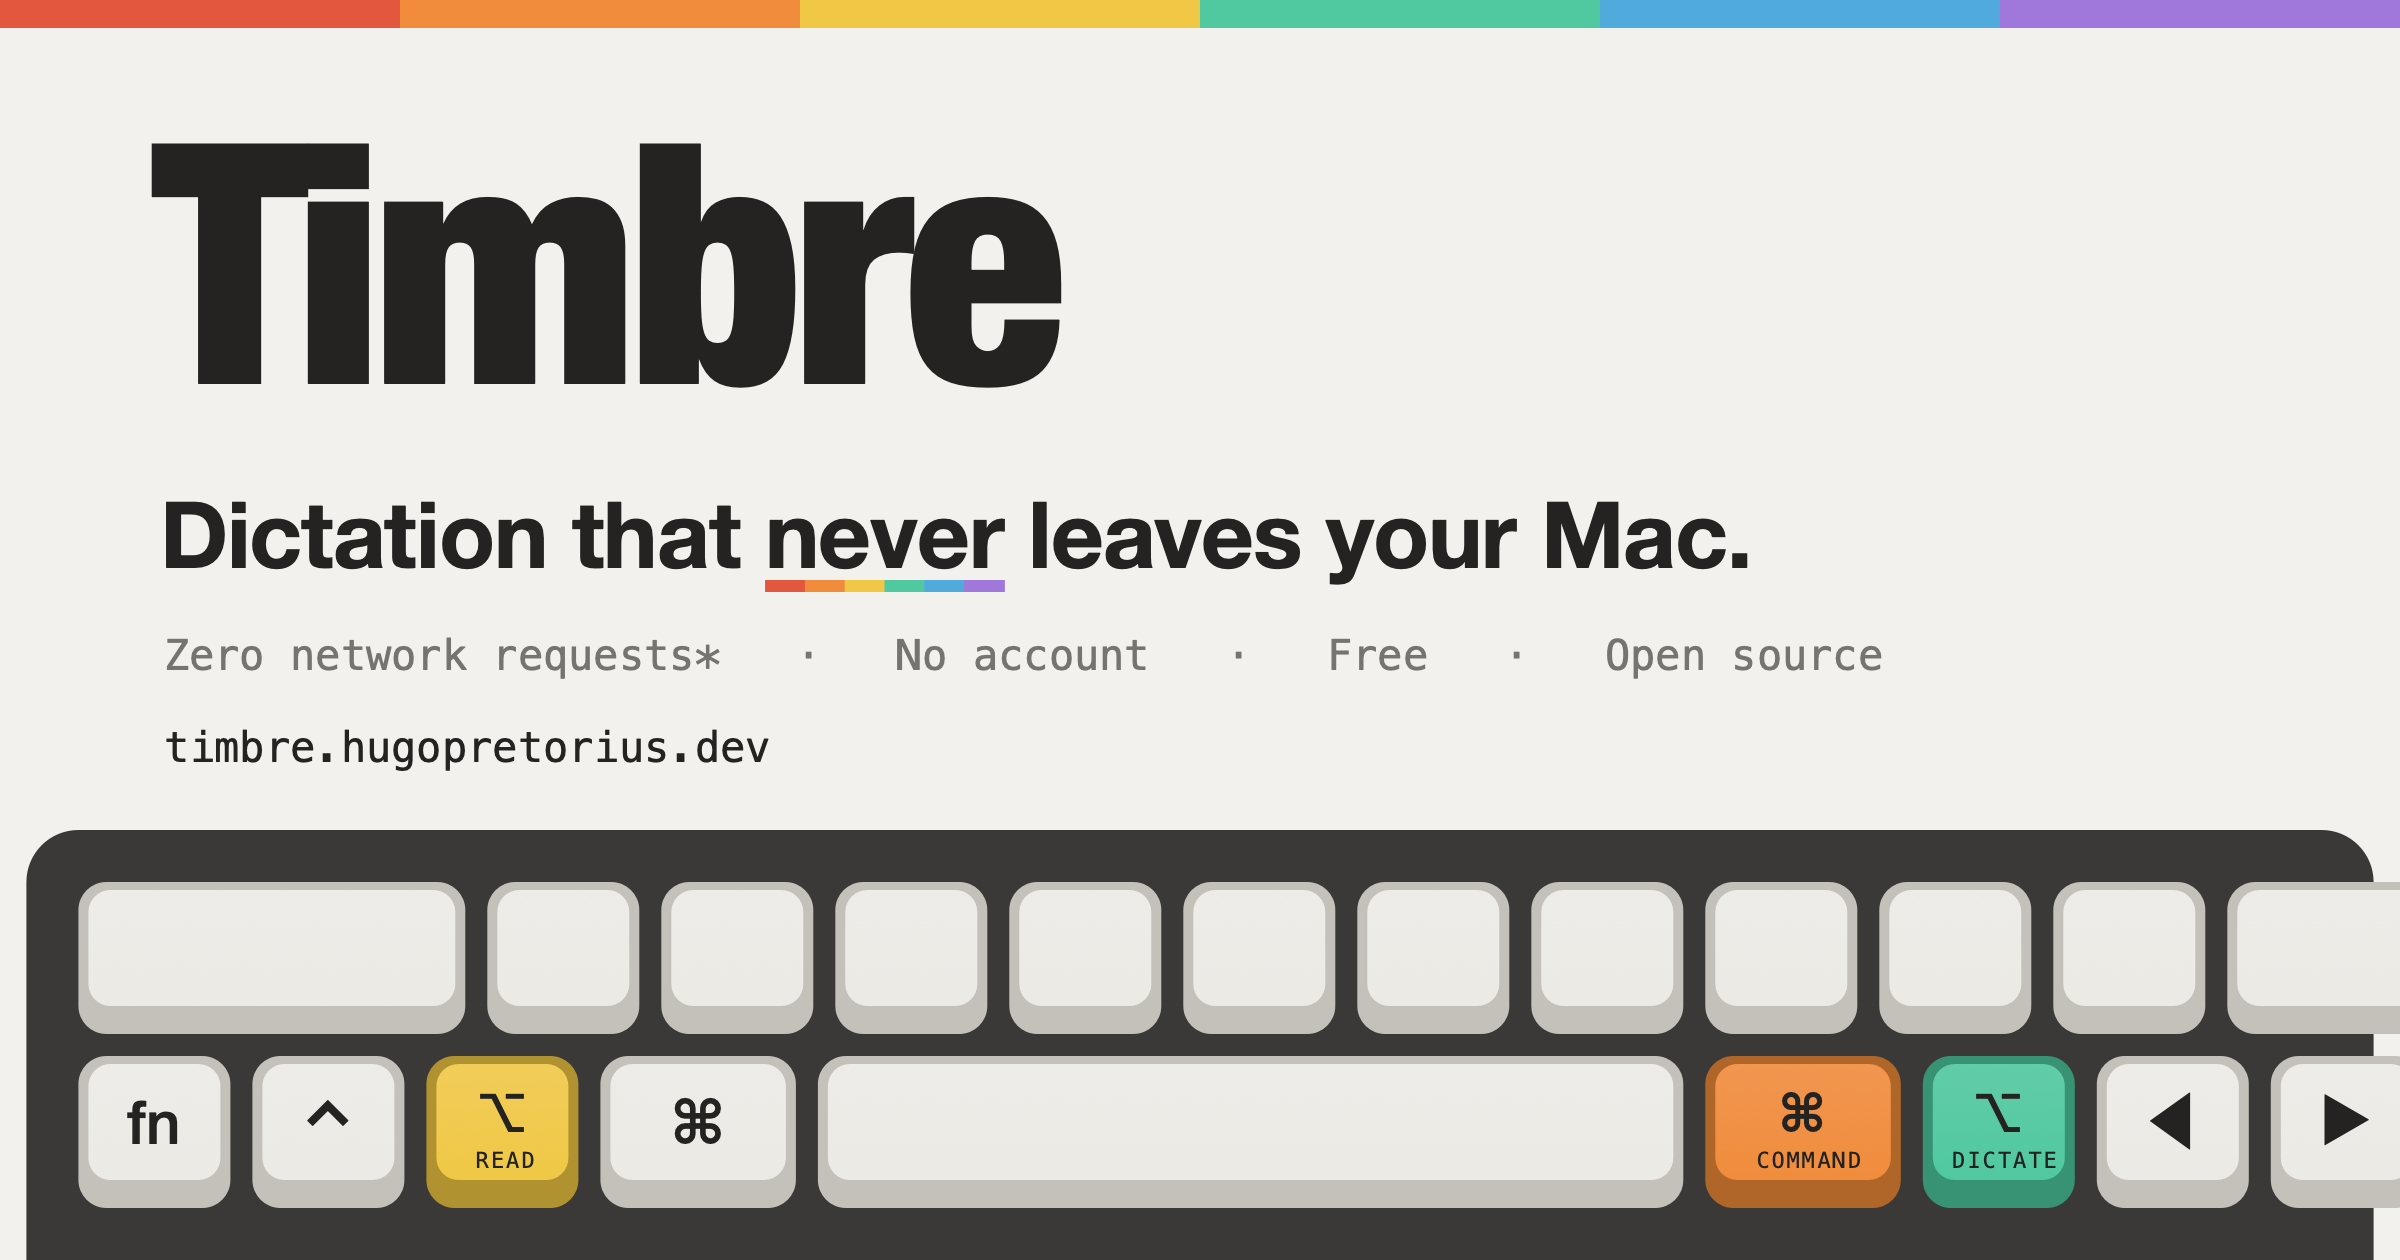
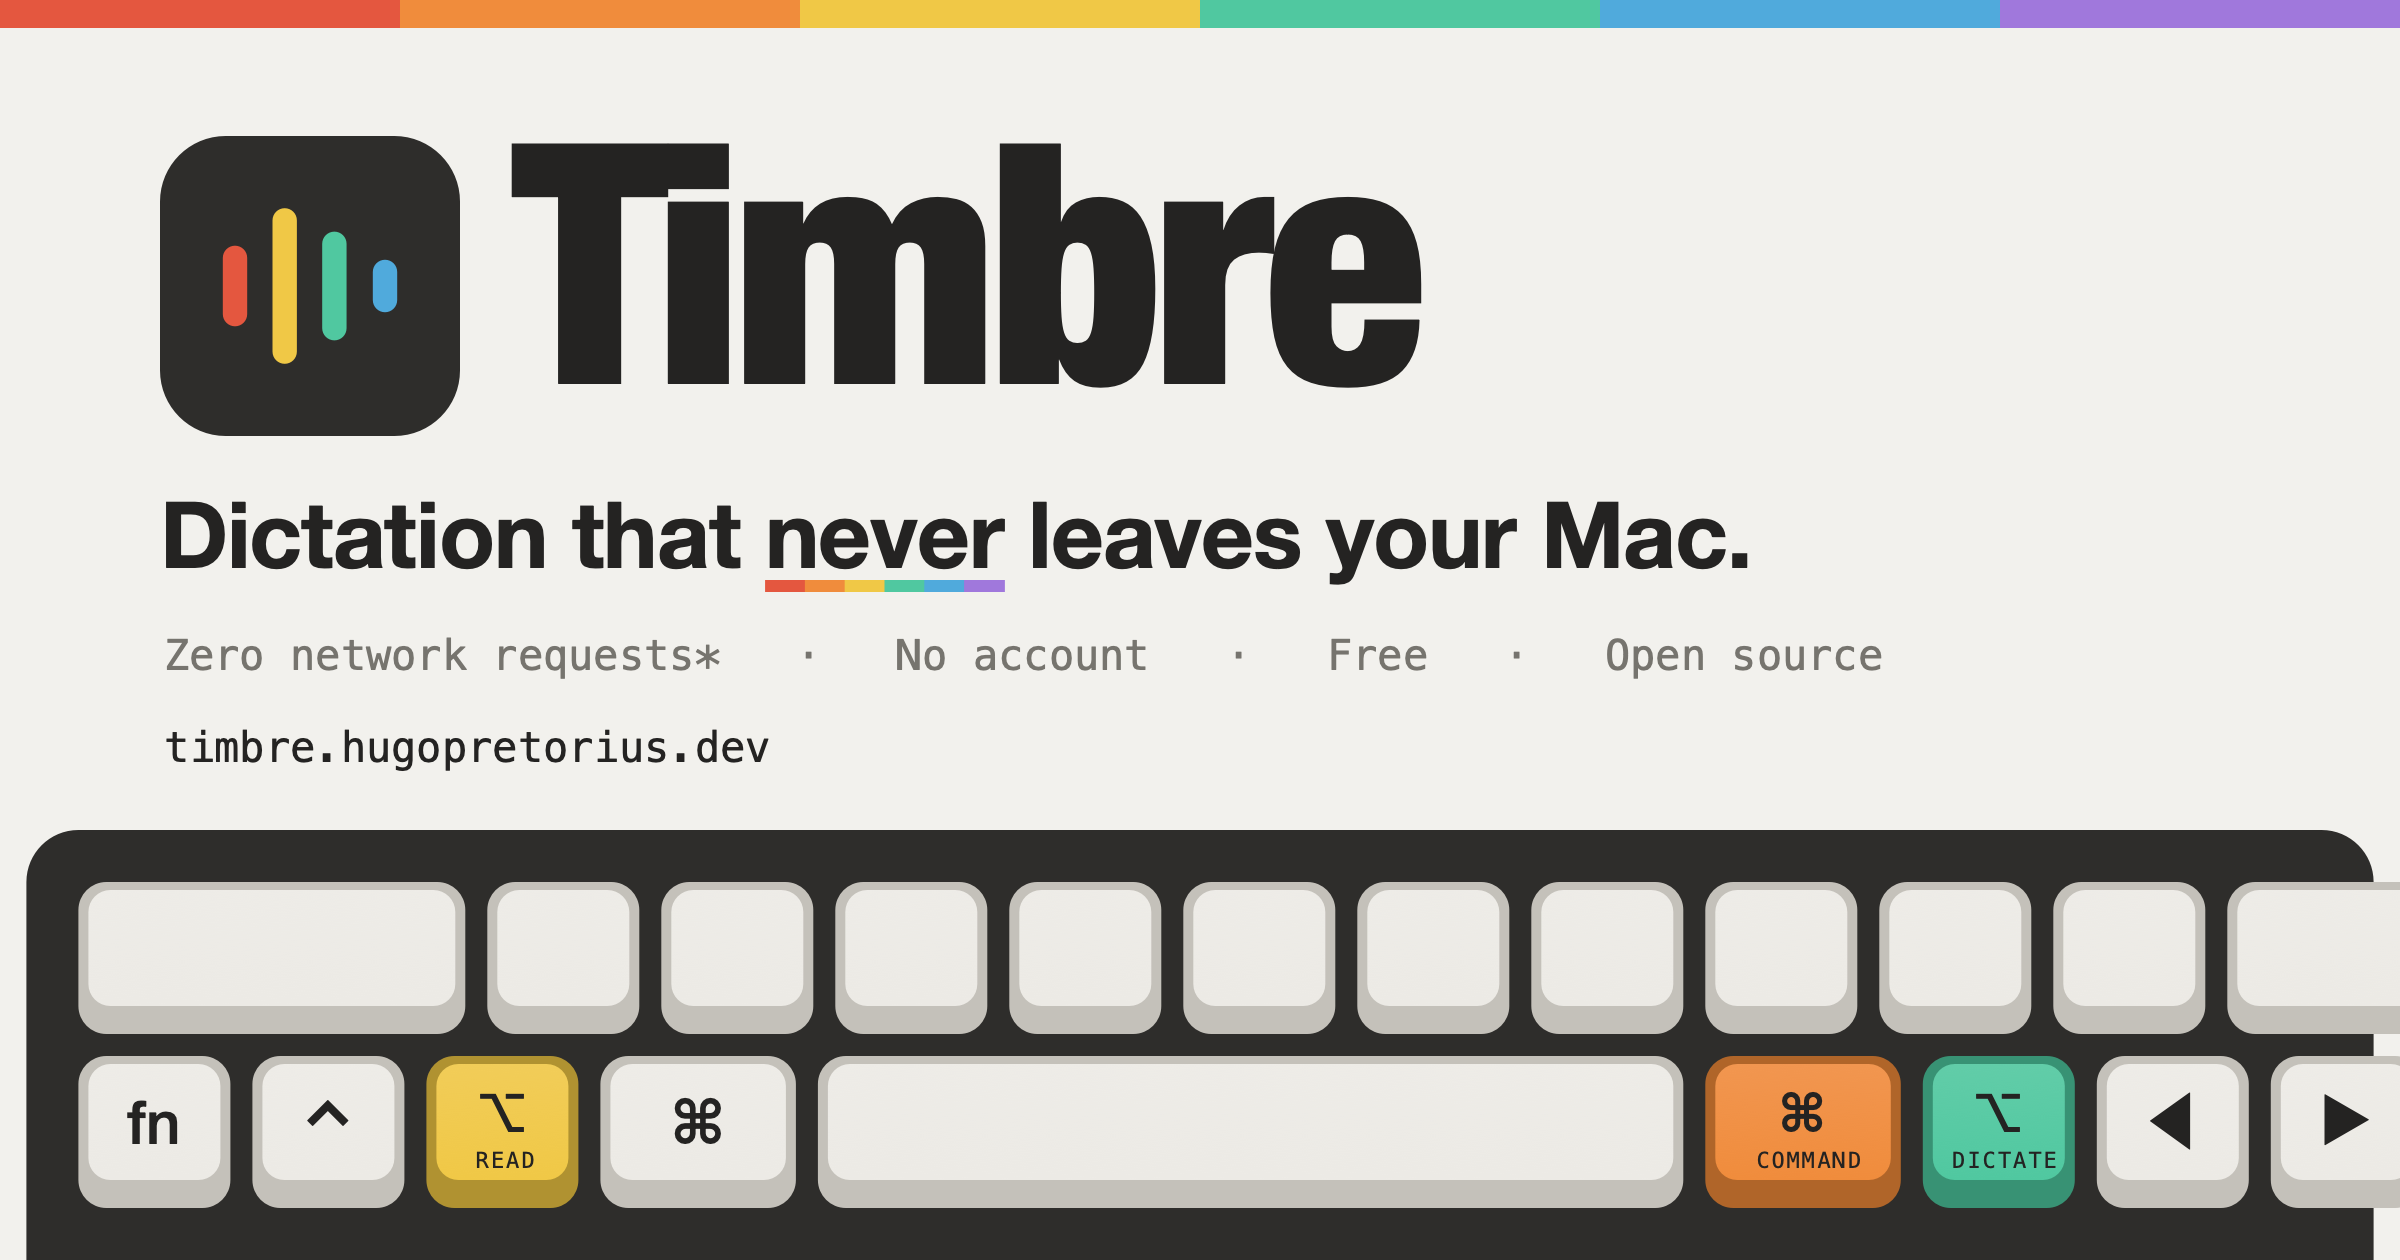
The mark beside the wordmark: site header, footer, Backstage, login, share image (#50)
The app icon's four bars, inline as an SVG that takes the palette from
the page, so the tab, the Dock, the header and the LinkedIn preview all
show the same voice.

Changed region(s): [[0.0625, 0.0929, 0.5938, 0.3714]]

diff --git a/tools/og-image.swift b/tools/og-image.swift
@@ -23,7 +23,14 @@ let ink = rgb(36, 35, 34)
 let muted = rgb(118, 116, 110)
 let capTop = rgb(236, 234, 229)
 let capSide = rgb(196, 193, 186)
-let caseColor = rgb(58, 57, 55)
+let caseColor = rgb(46, 45, 43)
+
+extension NSBezierPath {
+    func fill(with color: NSColor) {
+        color.setFill()
+        fill()
+    }
+}
 let rainbow = [rgb(228, 87, 63), rgb(240, 140, 60), rgb(240, 200, 70), rgb(80, 200, 160), rgb(80, 170, 220), rgb(160, 120, 220)]
 
 guard let rep = NSBitmapImageRep(
@@ -62,7 +69,19 @@ func size(of text: String, font: NSFont, kern: Double = 0) -> NSSize {
     NSAttributedString(string: text, attributes: [.font: font, .kern: kern]).size()
 }
 
-draw("Timbre", at: NSPoint(x: 76, y: 400), font: display, color: ink, kern: -4)
+// The mark: the favicon's four bars on a charcoal tile, beside the wordmark.
+let markSide = 150.0
+let markX = 80.0
+let markY = 412.0
+NSBezierPath(roundedRect: NSRect(x: markX, y: markY, width: markSide, height: markSide), xRadius: markSide * 7 / 32, yRadius: markSide * 7 / 32).fill(with: caseColor)
+let grid = markSide / 32
+let barWidth = 2.6 * grid
+for (i, cx) in [8.0, 13.3, 18.6, 24.0].enumerated() {
+    let h = [6.0, 14.0, 9.0, 3.0][i] * grid + barWidth
+    [rainbow[0], rainbow[2], rainbow[3], rainbow[4]][i].setFill()
+    NSBezierPath(roundedRect: NSRect(x: markX + cx * grid - barWidth / 2, y: markY + markSide / 2 - h / 2, width: barWidth, height: h), xRadius: barWidth / 2, yRadius: barWidth / 2).fill()
+}
+draw("Timbre", at: NSPoint(x: markX + markSide + 26, y: 400), font: display, color: ink, kern: -4)
 draw("Dictation that never leaves your Mac.", at: NSPoint(x: 80, y: 336), font: tagline, color: ink, kern: -0.5)
 
 // The rainbow under "never".

diff --git a/web/src/routes/(public)/+layout.svelte b/web/src/routes/(public)/+layout.svelte
@@ -1,6 +1,7 @@
 <script lang="ts">
 	import { page } from '$app/state';
 	import { Button } from '$lib/components/ui/button';
+	import Mark from '$lib/components/marketing/Mark.svelte';
 	import Stripe from '$lib/components/marketing/Stripe.svelte';
 	import ThemeToggle from '$lib/components/site/ThemeToggle.svelte';
 	import { site } from '$lib/site';
@@ -18,9 +19,12 @@
 <div class="flex min-h-screen flex-col">
 	<header class="bg-background/85 sticky top-0 z-30 backdrop-blur-md">
 		<nav class="mx-auto flex h-16 max-w-6xl items-center gap-5 px-6">
-			<a href="/" class="flex flex-col gap-[5px]" aria-label="Timbre home">
-				<span class="display text-[1.6rem] leading-none">Timbre</span>
-				<Stripe height="3px" />
+			<a href="/" class="flex items-center gap-2.5" aria-label="Timbre home">
+				<Mark size={30} />
+				<span class="flex flex-col gap-[5px]">
+					<span class="display text-[1.6rem] leading-none">Timbre</span>
+					<Stripe height="3px" />
+				</span>
 			</a>
 
 			<div class="ml-auto hidden items-center gap-6 text-sm sm:flex">
@@ -54,7 +58,10 @@
 		<Stripe height="6px" rounded={false} />
 		<div class="mx-auto grid max-w-6xl gap-10 px-6 py-12 sm:grid-cols-[1.2fr_1fr_1fr]">
 			<div>
-				<p class="display text-2xl">Timbre</p>
+				<div class="flex items-center gap-2.5">
+					<Mark size={26} />
+					<p class="display text-2xl">Timbre</p>
+				</div>
 				<p class="text-muted-foreground mt-3 max-w-[38ch] text-sm leading-relaxed">
 					{site.tagline} Free for personal use, built in the open, and it never sends your voice
 					or your text off this Mac.

diff --git a/web/src/routes/backstage/+layout.svelte b/web/src/routes/backstage/+layout.svelte
@@ -6,6 +6,7 @@
 	import { Button } from '$lib/components/ui/button';
 	import CommandPalette from '$lib/components/backstage/CommandPalette.svelte';
 	import ThemeToggle from '$lib/components/site/ThemeToggle.svelte';
+	import Mark from '$lib/components/marketing/Mark.svelte';
 	import Stripe from '$lib/components/marketing/Stripe.svelte';
 	import { modules } from '$lib/university';
 	import { releases } from '$lib/releases';
@@ -73,10 +74,7 @@
 	<Sidebar.Root collapsible="icon">
 		<Sidebar.Header>
 			<a href="/backstage" class="flex items-center gap-2.5 px-2 py-1.5">
-				<span class="flex shrink-0 flex-col gap-[3px]">
-					<span class="display text-[1.15rem] leading-none">T</span>
-					<span class="rainbow block h-[3px] w-4 rounded-full"></span>
-				</span>
+				<Mark size={28} class="shrink-0" />
 				<span class="flex flex-col group-data-[collapsible=icon]:hidden">
 					<span class="display text-base leading-none">Timbre</span>
 					<span class="eyebrow text-muted-foreground mt-1 text-[9px]">backstage</span>

diff --git a/web/src/lib/components/marketing/Mark.svelte b/web/src/lib/components/marketing/Mark.svelte
@@ -1,0 +1,23 @@
+<script lang="ts">
+	/// The mark: four bars, the shape of a voice, on a charcoal tile — the
+	/// favicon and the app icon, drawn inline so it takes the palette from
+	/// the page and stays crisp at any size.
+	let { size = 28, class: className = '' }: { size?: number; class?: string } = $props();
+</script>
+
+<svg
+	viewBox="0 0 32 32"
+	width={size}
+	height={size}
+	class={className}
+	aria-hidden="true"
+	focusable="false"
+>
+	<rect width="32" height="32" rx="7" fill="var(--case)" />
+	<g stroke-width="2.6" stroke-linecap="round">
+		<line x1="8" y1="13" x2="8" y2="19" stroke="var(--retro-red)" />
+		<line x1="13.3" y1="9" x2="13.3" y2="23" stroke="var(--retro-yellow)" />
+		<line x1="18.6" y1="11.5" x2="18.6" y2="20.5" stroke="var(--retro-green)" />
+		<line x1="24" y1="14.5" x2="24" y2="17.5" stroke="var(--retro-blue)" />
+	</g>
+</svg>

diff --git a/web/src/routes/login/+page.svelte b/web/src/routes/login/+page.svelte
@@ -2,7 +2,7 @@
 	import { Button } from '$lib/components/ui/button';
 	import * as Card from '$lib/components/ui/card';
 	import { enhance } from '$app/forms';
-	import Stripe from '$lib/components/marketing/Stripe.svelte';
+	import Mark from '$lib/components/marketing/Mark.svelte';
 
 	let { data, form } = $props();
 </script>
@@ -15,7 +15,7 @@
 <div class="mx-auto flex min-h-[70vh] max-w-md items-center px-6">
 	<Card.Root class="w-full">
 		<Card.Header>
-			<Stripe height="4px" width="3rem" class="mb-3" />
+			<Mark size={36} class="mb-3" />
 			<Card.Title class="display text-3xl">Backstage</Card.Title>
 			<Card.Description>
 				Where Timbre is run: releases, decisions, plans, evals and the University. Private.
